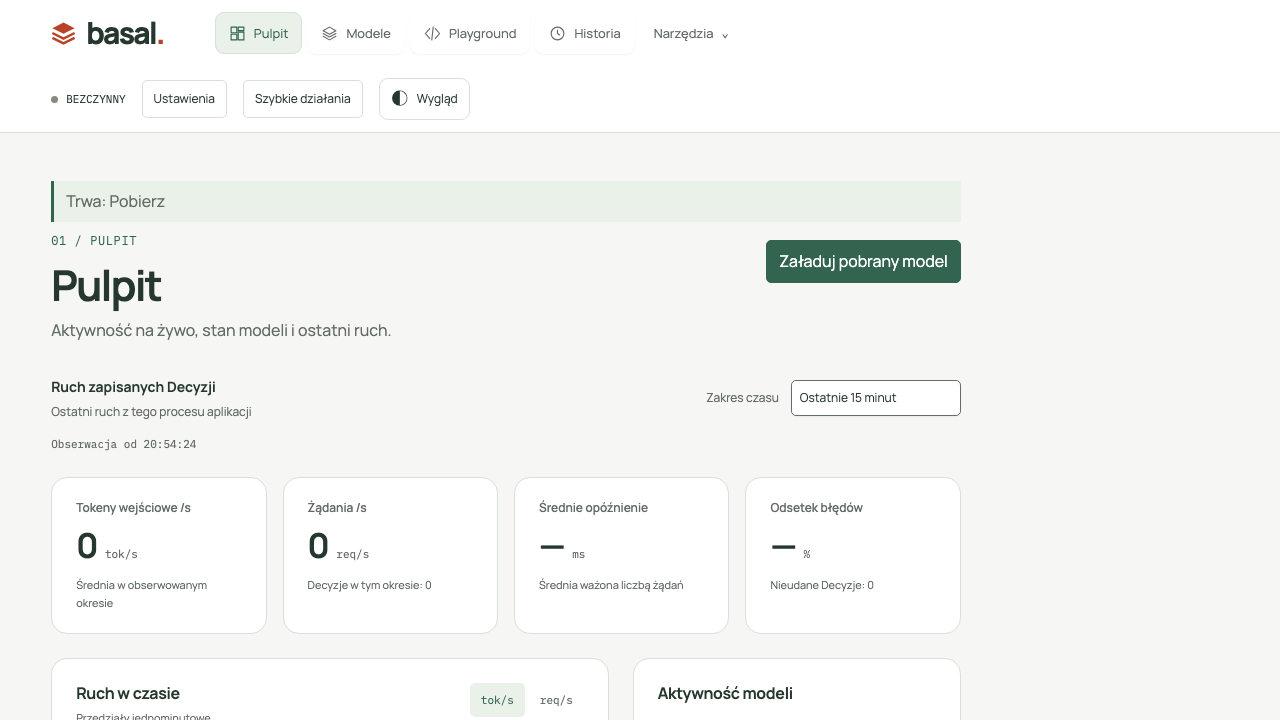
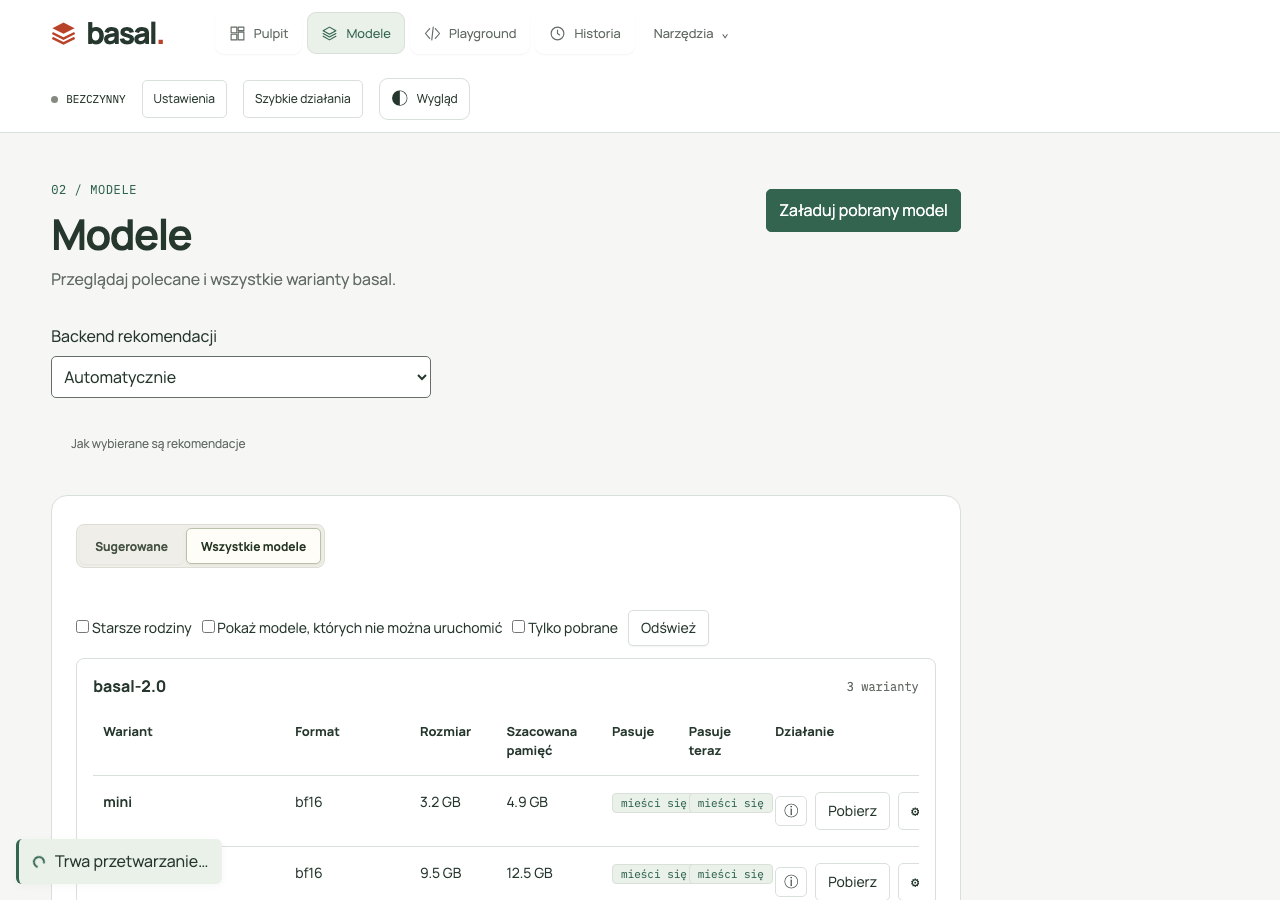
fix: keep pending feedback accurate

diff --git a/basal_ui/static/app.js b/basal_ui/static/app.js
@@ -1605,7 +1605,7 @@ async function sendDecision() {
   $('#sendButton').disabled=true;
   const mediaSnapshot=(Array.isArray(request.media)?request.media:[]).map(media=>{const item=selectedMedia.find(current=>current.data===media?.data);return item?{kind:item.kind,data:item.data,file:item.file,elements:item.elements}:null;});
   const evidenceStamp=modelEvidenceStamp(request.model);
-  try { const response=await withPending(t('Send decision'),()=>api('/api/decide',{method:'POST',body:JSON.stringify(request)})); renderResults(response,request,mediaSnapshot,evidenceStamp); }
+  try { const response=await withPending('decision',()=>api('/api/decide',{method:'POST',body:JSON.stringify(request)})); renderResults(response,request,mediaSnapshot,evidenceStamp); }
   catch(e) {
     if(e.status===422&&!jsonMode)showQuestionErrors(String(e.detail||''),request);
     showDecideError(e.message); toast(e.message,'error');
@@ -1805,17 +1805,25 @@ const pct=v=>v==null?'—':`${(Number(v)*100).toFixed(1)}%`;
 const num=(v,digits=1)=>v==null?'—':Number(v).toFixed(digits);
 const shortName=id=>String(id).split('/').pop();
 const clock=ts=>new Date(ts*1000).toLocaleTimeString([], {hour12:false});
-let pendingActions=0, initialLoading=false;
+let pendingActions=0, pendingDecisions=0, initialLoading=false;
 function setPendingStatus(text=''){$('#pendingStatus').textContent=text;}
+function updatePendingStatus(){
+  const status=$('#pendingStatus'),dialog=pendingActions&&document.querySelector('dialog[open]');
+  setPendingStatus(pendingDecisions?t('Sending a Decision…'):pendingActions?t('Working…'):initialLoading?t('Loading basal-ui…'):'');
+  if(dialog){dialog.prepend(status);status.classList.add('in-dialog');}
+  else if(status.parentElement!==$('#main-content')){$('#main-content').prepend(status);status.classList.remove('in-dialog');}
+}
 async function withPending(action,fn){
   pendingActions++;
-  setPendingStatus(action?t('Working: {action}',{action}):t('Working…'));
-  try{return await fn();}finally{if(!--pendingActions)setPendingStatus(initialLoading?t('Loading basal-ui…'):'');}
+  if(action==='decision')pendingDecisions++;
+  updatePendingStatus();
+  try{return await fn();}finally{pendingActions--;if(action==='decision')pendingDecisions--;updatePendingStatus();}
 }
-async function act(fn){
-  const control=document.activeElement, action=control?.getAttribute('aria-label')||control?.textContent?.trim().replace(/\s+/g,' ');
-  try{await withPending(action,fn);}catch(e){toast(e.message,'error');}
-}
+async function act(fn){try{await withPending('',fn);}catch(e){toast(e.message,'error');}}
+document.addEventListener('close',event=>{
+  const status=$('#pendingStatus');
+  if(pendingActions&&event.target.contains(status)){$('#main-content').prepend(status);status.classList.remove('in-dialog');}
+},true);
 
 function comparisonBadge(){return `<details class="comparison-badge"><summary class="badge">${t('Comparison')}</summary><p>${t('External model for comparison; confidence is not calibrated.')}</p></details>`;}
 let decisionServerSignature='';
@@ -2988,5 +2996,5 @@ $('#saveMemory').onclick=async()=>{
 showView(location.hash);
 loadMemorySettings();
 loadPresets();refreshUpdates();
-initialLoading=true;setPendingStatus(t('Loading basal-ui…'));
- (async()=>{try{renderHardware(await api('/api/hardware'));}catch(e){$('#deviceName').textContent=t('Hardware unavailable: {message}',{message:e.message});}try{await Promise.all([loadSettings(),loadModels(),loadExamples(),refreshStatus(),loadServe()]);restorePlaygroundLanguageDraft();}finally{initialLoading=false;if(!pendingActions)setPendingStatus();}})();
+initialLoading=true;updatePendingStatus();
+ (async()=>{try{renderHardware(await api('/api/hardware'));}catch(e){$('#deviceName').textContent=t('Hardware unavailable: {message}',{message:e.message});}try{await Promise.all([loadSettings(),loadModels(),loadExamples(),refreshStatus(),loadServe()]);restorePlaygroundLanguageDraft();}finally{initialLoading=false;updatePendingStatus();}})();

diff --git a/basal_ui/static/app.css b/basal_ui/static/app.css
@@ -270,4 +270,4 @@ dialog[open]{position:fixed;inset:0;margin:auto}
 .cascade-level{display:grid;gap:8px;margin:10px 0;padding:12px;border:1px solid var(--line);border-radius:6px}
 .playground-shell{min-width:0}
 .chips.safety .chip,.chips.safety .badge{height:auto;max-width:100%;min-width:0;overflow-wrap:anywhere;white-space:normal}
-.pending-status:empty{display:none}.pending-status:not(:empty){margin:0 0 10px;padding:8px 12px;border-inline-start:3px solid var(--accent);background:var(--accent-light)}
+.pending-status:empty{margin:0;padding:0}.pending-status:not(:empty){position:fixed;inset-block-end:16px;inset-inline-start:16px;z-index:40;display:flex;align-items:center;gap:10px;width:max-content;max-width:calc(100vw - 32px);margin:0;padding:10px 14px;border-inline-start:3px solid var(--accent);border-radius:6px;background:var(--accent-light);color:var(--ink);box-shadow:var(--shadow)}.pending-status.in-dialog:not(:empty){position:static;width:auto;max-width:none;margin:0 0 12px;box-shadow:none}.pending-status:not(:empty)::before{content:"";width:12px;height:12px;border:2px solid var(--accent);border-radius:50%;flex:none}@media(prefers-reduced-motion:no-preference){.pending-status:not(:empty)::before{border-inline-end-color:transparent;animation:pending-spin 1s linear 2}@keyframes pending-spin{to{transform:rotate(1turn)}}}@media(prefers-reduced-motion:reduce){.pending-status:not(:empty)::before{width:8px;height:8px;background:var(--accent)}}

diff --git a/basal_ui/static/i18n.js b/basal_ui/static/i18n.js
@@ -173,7 +173,7 @@ const PL = {
   "Stopped, resumable.": "Zatrzymano; można wznowić.",
   "code:phase_stopped_resumable": "zatrzymano; można wznowić",
   "Working…": "Trwa przetwarzanie…",
-  "Working: {action}": "Trwa: {action}",
+  "Sending a Decision…": "Wysyłanie Decyzji…",
   "Loading basal-ui…": "Ładowanie basal-ui…",
   "A tool name clashes with another enabled option.": "Nazwa narzędzia koliduje z inną włączoną opcją.",
   "Import or refresh MCP tools": "Importuj lub odśwież narzędzia MCP",

diff --git a/tests/e2e/test_pages.py b/tests/e2e/test_pages.py
@@ -201,91 +201,158 @@ def test_calibration_file_messages_are_separate_and_escaped(browser, tmp_path):
         assert not app.stop()
 
 
-def test_foreground_pending_feedback(browser, isolated_ui):
+def test_foreground_pending_feedback(browser, isolated_ui, tmp_path):
     context = browser.new_context(reduced_motion="reduce", service_workers="block")
     page = context.new_page()
     try:
         page.add_init_script("""(() => {
           const fetch=window.fetch.bind(window);
-          window.fetch=(input,...args)=>String(input)==='/api/hardware'&&!sessionStorage.getItem('heldHardware')
-            ?(sessionStorage.setItem('heldHardware','1'),new Promise(resolve=>window.releaseHardware=()=>resolve(fetch(input,...args))))
-            :fetch(input,...args);
+          window.__foregroundRequests=[]; window.__completedRequests=[]; window.__batchJob=null;
+          window.fetch=async(input,options={})=>{
+            const path=new URL(String(input),location.href).pathname, method=options.method||'GET';
+            if(path==='/api/hardware'&&!sessionStorage.getItem('heldHardware')){
+              sessionStorage.setItem('heldHardware','1');
+              return new Promise(resolve=>window.releaseHardware=()=>resolve(fetch(input,options)));
+            }
+            if(path==='/api/download'){
+              const id=JSON.parse(options.body).id;
+              window.__foregroundRequests.push({path,method,id});
+              await new Promise(resolve=>setTimeout(resolve,id.endsWith('/slow')?1100:300));
+              window.__completedRequests.push(id);
+              return id.endsWith('/fail')
+                ?new Response(JSON.stringify({detail:'Synthetic failure'}),{status:503,headers:{'content-type':'application/json'}})
+                :new Response('{}',{headers:{'content-type':'application/json'}});
+            }
+            if(path==='/api/models/card'){
+              window.__foregroundRequests.push({path,method});
+              await new Promise(resolve=>setTimeout(resolve,1900));
+              window.__completedRequests.push(path);
+              return new Response(JSON.stringify({id:'public/card',repo:'public/card',url:'https://example.org',family:'basal-2.0',tier:'mini',label:'bf16',port:'bf16',size_bytes:1,media:[],quantisation:{scheme:'bf16',engine:'basal'},assessment:{mode:'eager',runnable:true,fit:'fits',fit_now:'fits',est_memory_bytes:1},downloaded:false,revisions:[]}),{headers:{'content-type':'application/json'}});
+            }
+            if(path==='/api/decide'){
+              window.__foregroundRequests.push({path,method});
+              await new Promise(resolve=>setTimeout(resolve,500));
+              return new Response(JSON.stringify({detail:'Synthetic failure'}),{status:503,headers:{'content-type':'application/json'}});
+            }
+            if(path==='/api/status'){
+              const response=await fetch(input,options),data=await response.json();
+              if(window.__batchJob)data.jobs={...data.jobs,batch:window.__batchJob};
+              return new Response(JSON.stringify(data),{headers:{'content-type':'application/json'}});
+            }
+            if(path==='/api/batch'&&method==='DELETE'){
+              window.__foregroundRequests.push({path,method});
+              await new Promise(resolve=>setTimeout(resolve,400));
+              window.__batchJob={running:false,phase:'cancelled',done:1,total:5};
+              return new Response('{}',{headers:{'content-type':'application/json'}});
+            }
+            return fetch(input,options);
+          };
         })()""")
         page.goto(isolated_ui.url)
         sync_api.expect(page.locator("#pendingStatus")).to_have_text("Loading basal-ui…")
         page.evaluate("window.releaseHardware()")
-        page.wait_for_function("() => statusCache !== null && !document.querySelector('#pendingStatus').textContent")
-        page.evaluate("""() => {
-          const button=document.createElement('button');
-          button.type='button'; button.className='download-model'; button.dataset.id='public/example-model';
-          button.textContent='Download'; document.querySelector('#main-content').append(button);
-          const realApi=api;
-          window.api=async(path,options={})=>{
-            if(path==='/api/download'){
-              await new Promise(resolve=>setTimeout(resolve,1200));
-              if(window.failDownload)throw new Error('Synthetic download failure');
-              return {};
-            }
-            if(path==='/api/batch'&&options.method==='DELETE'){
-              await new Promise(resolve=>setTimeout(resolve,1200)); return {};
-            }
-            return realApi(path,options);
-          };
-        }""")
-        button = page.get_by_role("button", name="Download", exact=True)
-        button.focus()
-        button.press("Enter")
-        sync_api.expect(page.locator("#pendingStatus")).to_have_text("Working: Download")
-        assert page.locator("#pendingStatus").evaluate("el => getComputedStyle(el).animationName === 'none'")
-        assert page.evaluate("matchMedia('(prefers-reduced-motion: reduce)').matches")
-        page.locator("#pendingStatus").evaluate(
-            "el => {document.querySelector('#quickActionsRail').hidden=true;el.scrollIntoView({block:'center'})}"
+        page.wait_for_function(
+            "() => statusCache !== null && modelData.length && !document.querySelector('#pendingStatus').textContent"
         )
-        page.screenshot(path=str(Path(__file__).resolve().parents[2] / "docs/images/loading-progress.png"))
+        assert page.locator("#pendingStatus").evaluate(
+            "el => getComputedStyle(el).display !== 'none' && el.getAttribute('aria-live') === 'polite'"
+        )
+        page.evaluate("""() => {
+          const source=modelData[0],models=['slow','fail','dialog'].map(name=>({...source,id:`public/${name}`,repo:`public/${name}`,family:'basal-2.0',tier:'mini',label:'bf16',port:'bf16',downloaded:false,attached:false,runnable:true,media_mode:false,media:[],fit:'fits',fit_now:'fits',weights_bytes:1,est_memory_bytes:1}));
+          renderModels({models,suggestions:[],recommendation_backends:JSON.parse($('#recommendationBackend').dataset.choices),recommendation_note:''});
+        }""")
+        view(page, "models")
+        page.evaluate("selectModelsTab('all')")
+        fail_button = page.locator('#modelsTable .download-model[data-id="public/fail"]')
+        fail_button.focus()
+        fail_button.press("Enter")
+        sync_api.expect(page.locator("#pendingStatus")).to_have_text("Working…")
+        assert page.locator("#pendingStatus").evaluate("el => getComputedStyle(el,'::before').animationName === 'none'")
+        assert page.evaluate("matchMedia('(prefers-reduced-motion: reduce)').matches")
+        sync_api.expect(page.locator("#toastStack")).to_contain_text("Synthetic failure")
         sync_api.expect(page.locator("#pendingStatus")).to_be_empty()
 
-        page.evaluate("window.failDownload=true")
-        button.focus()
-        button.press("Enter")
-        sync_api.expect(page.locator("#pendingStatus")).to_have_text("Working: Download")
+        page.emulate_media(reduced_motion="no-preference")
+        slow_button = page.locator('#modelsTable .download-model[data-id="public/slow"]')
+        slow_button.scroll_into_view_if_needed()
+        slow_button.click()
+        sync_api.expect(page.locator("#pendingStatus")).to_have_text("Working…")
+        assert page.locator("#pendingStatus").evaluate(
+            "el => {const s=getComputedStyle(el,'::before');return getComputedStyle(el).position === 'fixed' && s.animationName === 'pending-spin' && s.animationIterationCount === '2'}"
+        )
+        box = page.locator("#pendingStatus").bounding_box()
+        assert box and box["x"] >= 0 and box["y"] >= 0 and box["y"] + box["height"] <= page.evaluate("innerHeight")
+        page.screenshot(path=str(tmp_path / "loading-pending-en.png"))
+        page.locator('#modelsTable .model-card-open[data-id="public/dialog"]').click()
+        sync_api.expect(page.locator("#pendingStatus")).to_have_text("Working…")
+        page.wait_for_function("() => window.__completedRequests.includes('public/slow')")
+        sync_api.expect(page.locator("#pendingStatus")).to_have_text("Working…")
+        sync_api.expect(page.locator("#pendingStatus")).to_be_empty()
+        page.wait_for_function("() => document.querySelector('#modelCardDialog').open")
+
+        page.locator("#modelCardBody").evaluate(
+            "el=>el.append(document.querySelector('#modelsTable .download-model[data-id=\"public/dialog\"]'))"
+        )
+        dialog_button = page.locator('#modelCardBody .download-model[data-id="public/dialog"]')
+        dialog_button.click()
+        sync_api.expect(page.locator("#pendingStatus")).to_have_text("Working…")
+        assert page.locator("#pendingStatus").evaluate(
+            "el => el.closest('dialog')?.id === 'modelCardDialog' && getComputedStyle(el).position === 'static'"
+        )
+        page.screenshot(path=str(tmp_path / "loading-pending-dialog.png"))
+        sync_api.expect(page.locator("#pendingStatus")).to_be_empty()
+        page.locator("#modelCardDialog").evaluate("el => el.close()")
+
+        view(page, "playground")
+        page.evaluate(
+            """request=>{
+          selectedModel='public/slow';const select=$('#playgroundModel');
+          select.innerHTML='<option value="public/slow">public/slow</option>';select.value=selectedModel;setRequest(request);
+        }""",
+            CHOICE,
+        )
+        page.evaluate("sendDecision();undefined")
+        sync_api.expect(page.locator("#pendingStatus")).to_have_text("Sending a Decision…")
         sync_api.expect(page.locator("#pendingStatus")).to_be_empty()
 
         page.evaluate("localStorage.setItem('basal-ui.lang','pl')")
         page.reload()
-        page.wait_for_function("() => statusCache !== null && !document.querySelector('#pendingStatus').textContent")
-        page.evaluate("""() => {
-          const button=document.createElement('button');
-          button.type='button'; button.className='download-model'; button.dataset.id='public/example-model';
-          button.textContent='Pobierz'; document.querySelector('#main-content').append(button);
-          const realApi=api;
-          window.api=async(path,options={})=>{
-            if(path==='/api/download'){
-              await new Promise(resolve=>setTimeout(resolve,1200));
-              if(window.failDownload)throw new Error('Synthetic download failure');
-              return {};
-            }
-            if(path==='/api/batch'&&options.method==='DELETE'){
-              await new Promise(resolve=>setTimeout(resolve,1200)); return {};
-            }
-            return realApi(path,options);
-          };
-        }""")
-        button = page.get_by_role("button", name="Pobierz")
-        button.focus()
-        button.press("Enter")
-        sync_api.expect(page.locator("#pendingStatus")).to_have_text("Trwa: Pobierz")
-        page.locator("#pendingStatus").evaluate(
-            "el => {document.querySelector('#quickActionsRail').hidden=true;el.scrollIntoView({block:'center'})}"
+        page.wait_for_function(
+            "() => statusCache !== null && modelData.length && !document.querySelector('#pendingStatus').textContent"
         )
-        page.screenshot(path=str(Path(__file__).resolve().parents[2] / "docs/images/loading-progress-pl.png"))
+        page.evaluate("""() => {
+          const source=modelData[0],models=['slow','fail','dialog'].map(name=>({...source,id:`public/${name}`,repo:`public/${name}`,family:'basal-2.0',tier:'mini',label:'bf16',port:'bf16',downloaded:false,attached:false,runnable:true,media_mode:false,media:[],fit:'fits',fit_now:'fits',weights_bytes:1,est_memory_bytes:1}));
+          renderModels({models,suggestions:[],recommendation_backends:JSON.parse($('#recommendationBackend').dataset.choices),recommendation_note:''});
+        }""")
+        view(page, "models")
+        page.evaluate("selectModelsTab('all')")
+        fail_button = page.locator('#modelsTable .download-model[data-id="public/fail"]')
+        fail_button.click()
+        sync_api.expect(page.locator("#pendingStatus")).to_have_text("Trwa przetwarzanie…")
+        page.screenshot(path=str(tmp_path / "loading-pending-pl.png"))
+        sync_api.expect(page.locator("#toastStack")).to_contain_text("Synthetic failure")
+        sync_api.expect(page.locator("#pendingStatus")).to_be_empty()
+
+        view(page, "playground")
+        page.evaluate(
+            """request=>{
+          selectedModel='public/slow';const select=$('#playgroundModel');
+          select.innerHTML='<option value="public/slow">public/slow</option>';select.value=selectedModel;setRequest(request);
+        }""",
+            CHOICE,
+        )
+        page.evaluate("sendDecision();undefined")
+        sync_api.expect(page.locator("#pendingStatus")).to_have_text("Wysyłanie Decyzji…")
         sync_api.expect(page.locator("#pendingStatus")).to_be_empty()
 
         view(page, "batch")
-        page.locator("#cancelBatch").evaluate("el => el.hidden=false")
+        page.evaluate("window.__batchJob={running:true,phase:'running',done:1,total:5};refreshStatus()")
+        sync_api.expect(page.locator("#cancelBatch")).to_be_visible()
         cancel = page.locator("#cancelBatch")
-        cancel.focus()
-        cancel.press("Enter")
-        sync_api.expect(page.locator("#pendingStatus")).to_have_text("Trwa: Anuluj")
+        cancel.click()
+        sync_api.expect(page.locator("#pendingStatus")).to_have_text("Trwa przetwarzanie…")
+        sync_api.expect(page.locator("#batchProgress")).to_contain_text("Anulowano.")
+        assert page.evaluate("window.__foregroundRequests.some(r=>r.path==='/api/batch'&&r.method==='DELETE')")
         sync_api.expect(page.locator("#pendingStatus")).to_be_empty()
     finally:
         context.close()

diff --git a/docs/WHATS_NEW.md b/docs/WHATS_NEW.md
@@ -4,7 +4,7 @@ This release adds model orchestration, scheduled inference, and new ways to buil
 
 ## Models and inference
 
-- Show a translated, screen-reader-announced pending status during initial loading and foreground actions, including while sending a Decision.
+- Show a translated, screen-reader-announced pending status during initial loading and foreground actions, including while sending a Decision. See the [English](images/loading-progress.png) and [Polish](images/loading-progress-pl.png) captures.
 - Create named escalation and Blend [Cascades](USAGE.md#cascades) from ready local models. Escalation supports an
   optional chat fallback. Playground and API responses identify the answering tier. Blend and fallback answers carry
   no automation certificate. Escalation without fallback also works in Batch.
